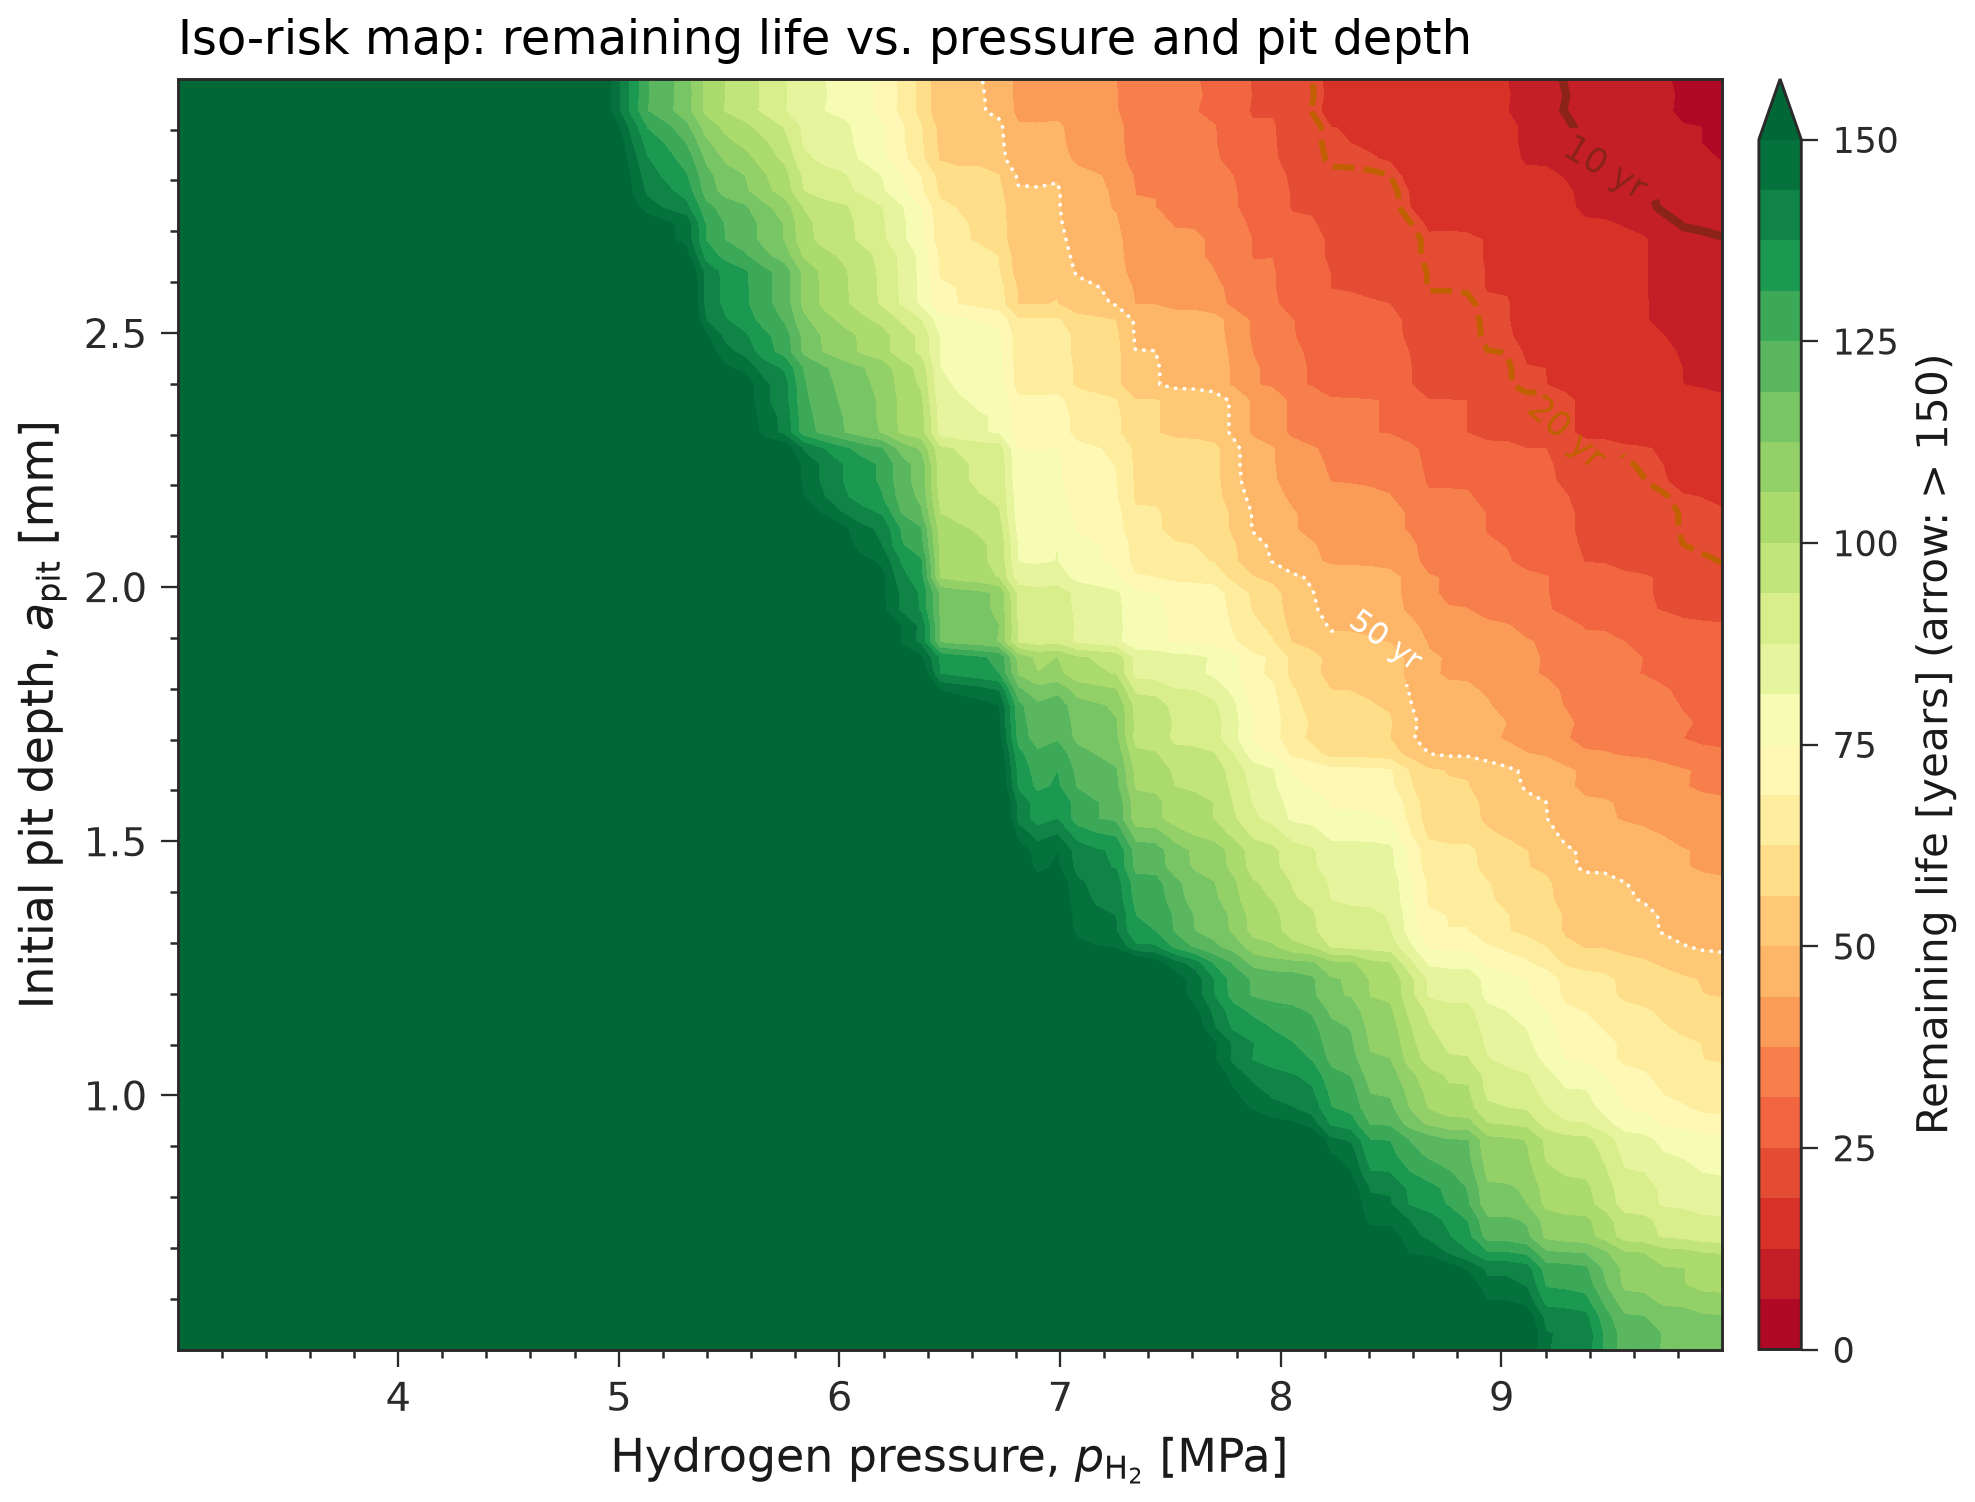
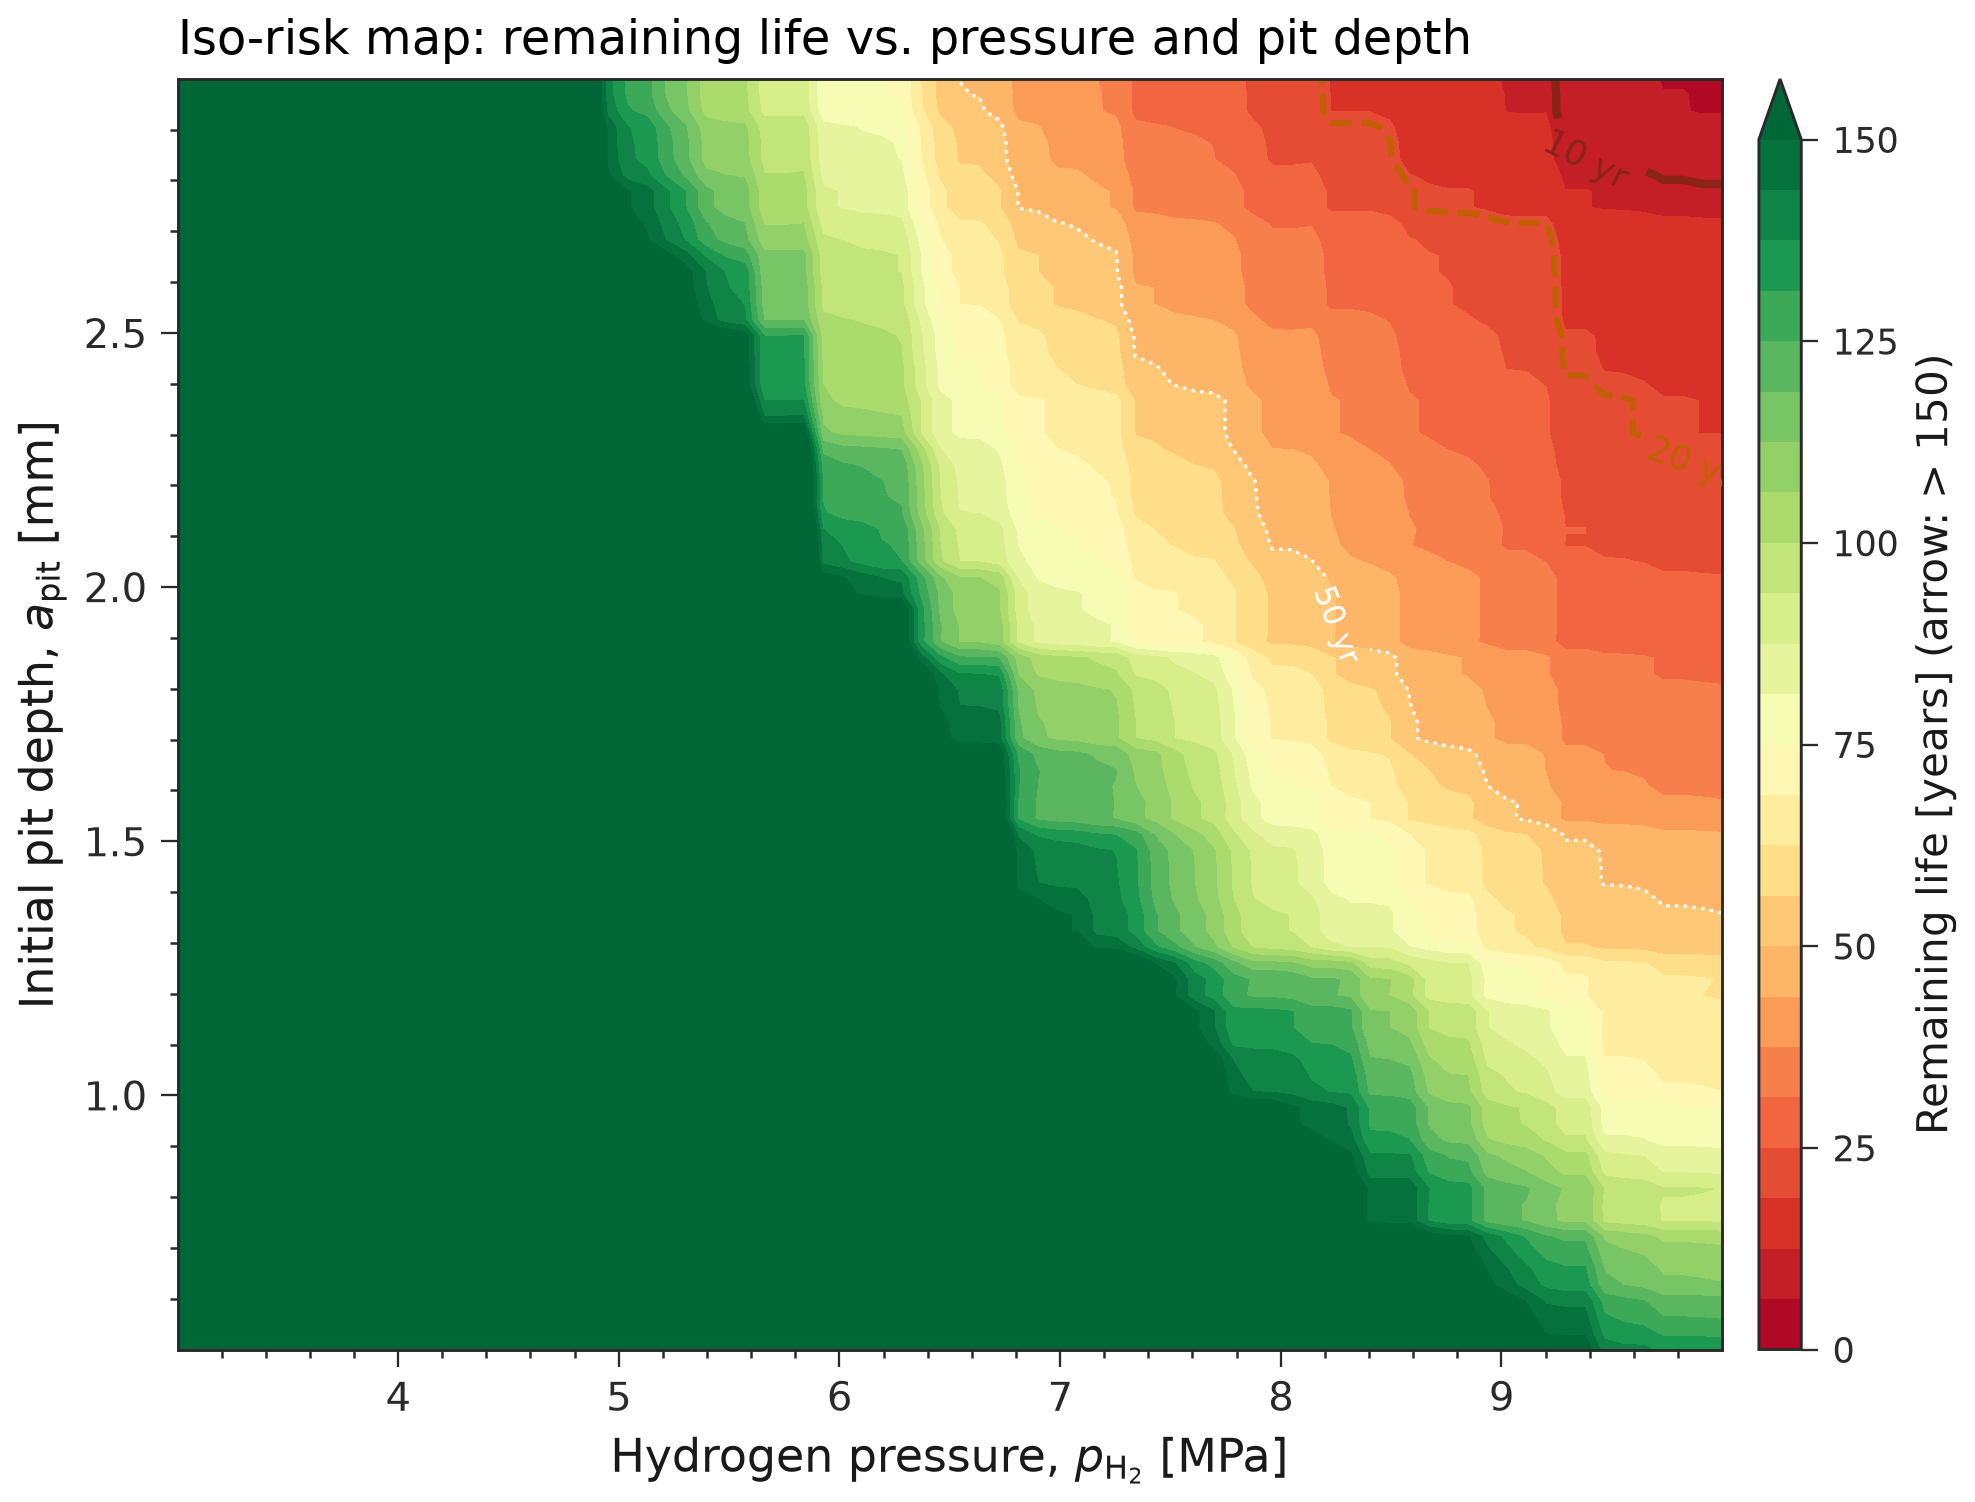
fix(lhs): raise the cycle cap so the sweep is not censored
The LHS sweep stopped at 100,000 cycles (274 yr), below the 279 yr
default case, so 723 of 2,000 runs (154 of the 390 held-out runs) sat at
the cap and Spearman rho and the surrogate were fitted to the capped
value. The cap is now 1,000,000 cycles (2,740 yr): 43 runs (2.2%) are
censored. They are flagged, tie above every failure in the Spearman
ranks, and are left out of the surrogate.

Spearman rho: p_H2 -0.832 -> -0.855, pit depth -0.431 -> -0.460,
K_IC +0.117 -> +0.109, c/a +0.026 -> +0.025, D_L +0.001 -> +0.004.
Surrogate R2 0.997 -> 0.993, MAE 3.5 -> 19.0 yr (lives now span
0 to 2,740 yr). LHS run time 167 -> 491 s on 24 cores.

Test: test_lhs_cap_clears_default_life_and_flags_censoring (fails on
the old 100,000-cycle cap). Tornado, parity and iso-risk figures
regenerated; the largest tornado label now sits inside its bar.

Changed region(s): [[0.5251, 0.0306, 0.8957, 0.5819], [0.3089, 0.0306, 0.8957, 0.9188], [0.4324, 0.0919, 0.4633, 0.1225]]

diff --git a/docs/equations.html b/docs/equations.html
@@ -285,7 +285,7 @@ with design factor $F=0.50$ and material performance factor $H_f=0.54$, both pla
 </div>
 
 <footer>
-  Integrity Code Series — Week 7 · Felipe Rocha · 191 / 191 tests passing<br>
+  Integrity Code Series — Week 7 · Felipe Rocha · 192 / 192 tests passing<br>
   Browse the rendered panels in <code>assets/</code> for visual results.
 </footer>
 

diff --git a/src/monte_carlo.py b/src/monte_carlo.py
@@ -34,6 +34,11 @@ from config import (
 from hydrogen_diffusion import solve_diffusion
 from ha_fcg import run_life_prediction, cycles_to_years
 
+# LHS cycle cap: 1,000,000 cycles is 2,740 years at one cycle a day, ten times the
+# default-case life (279 yr). At the old 100,000 cycles (274 yr) 723 of 2,000 runs
+# were censored, including the region around the default case.
+LHS_MAX_CYCLES = 1_000_000
+
 
 @dataclass
 class MonteCarloResult:
@@ -235,6 +240,7 @@ class LHSResult:
     remaining_life_years: np.ndarray
     failure_modes: List[str]
     spearman_correlations: Dict[str, float]
+    censored: np.ndarray         # no failure by the cap: life > cap, value held at the cap
 
 
 def run_lhs_sweep(
@@ -277,7 +283,7 @@ def run_lhs_sweep(
     sim_fast = SimControl(
         n_wall_nodes=30,
         dt_diffusion_s=200.0,
-        max_cycles=100_000,
+        max_cycles=LHS_MAX_CYCLES,
         da_increment_m=sim.da_increment_m,
         n_mc_samples=sim.n_mc_samples,
         mc_seed=sim.mc_seed,
@@ -325,8 +331,11 @@ def run_lhs_sweep(
     results = _map_samples(jobs, workers)
     remaining_lives = np.array([r[0] for r in results])
     failure_modes = [r[1] for r in results]
+    censored = np.array([m == "no_failure" for m in failure_modes], dtype=bool)
 
-    # Spearman rank correlation for sensitivity
+    # Spearman rank correlation for sensitivity. Censored runs tie at the cap,
+    # above every failure, which is their true rank order against failures;
+    # only their order among themselves is lost, so keep them few (see cap).
     from scipy.stats import spearmanr
     correlations = {}
     for j, name in enumerate(param_names):
@@ -340,4 +349,5 @@ def run_lhs_sweep(
         remaining_life_years=remaining_lives,
         failure_modes=failure_modes,
         spearman_correlations=correlations,
+        censored=censored,
     )

diff --git a/tests/test_suite.py b/tests/test_suite.py
@@ -1,6 +1,6 @@
 """
 INTEGRITY CODE SERIES -- Week 7
-Comprehensive Test Suite: 191 tests
+Comprehensive Test Suite: 192 tests
 
 Categories:
     A. Configuration and parameter validation (18)
@@ -1251,6 +1251,32 @@ class TestSeamFactorIsLive:
                              cfg["h2_embrittlement"], cfg["pit"], cfg["ops"], cfg["sim"])
         assert "f_seam" not in r.param_names
         assert r.params.shape == (8, 5)
+
+    def test_lhs_cap_clears_default_life_and_flags_censoring(self, cfg, monkeypatch):
+        """The default case fails at 101,801 cycles (279 yr). At the old LHS cap of
+        100,000 cycles 723 of 2,000 runs were censored around it, and rho and the
+        surrogate were fitted to the capped value. The cap must clear the default
+        life by a wide margin, and runs with no failure must be flagged."""
+        import monte_carlo as mc
+        caps = []
+
+        class Runout:
+            failure_mode = "no_failure"
+            pit_transitioned = False
+
+        def stub(*a, **k):
+            caps.append(a[6].max_cycles)
+            r = Runout()
+            r.failure_cycle = a[6].max_cycles
+            return r
+
+        cfg["sim"].n_lhs_samples = 4
+        monkeypatch.setattr(mc, "solve_diffusion", lambda *a, **k: None)
+        monkeypatch.setattr(mc, "run_life_prediction", stub)
+        r = mc.run_lhs_sweep(cfg["geom"], cfg["mat"], cfg["h2_transport"],
+                             cfg["h2_embrittlement"], cfg["pit"], cfg["ops"], cfg["sim"])
+        assert min(caps) >= 5 * 101_801
+        assert r.censored.all()
 
 
 class LifeStub:

diff --git a/run_all.py b/run_all.py
@@ -58,12 +58,14 @@ def main():
 
     print(f"Running LHS sweep ({sim.n_lhs_samples:,} samples)...")
     lhs = run_lhs_sweep(geom, mat, h2t, he, pit, ops, sim, workers=workers)
+    print(f"Censored at the cycle cap: {lhs.censored.sum()} of {lhs.n_samples}")
     print("Spearman correlations:")
     for k, v in sorted(lhs.spearman_correlations.items(), key=lambda x: -abs(x[1])):
         print(f"  {k}: {v:.3f}")
 
-    print("Training GBR surrogate...")
-    surr = train_surrogate(lhs.params, lhs.remaining_life_years, lhs.param_names)
+    print("Training GBR surrogate on the runs that fail before the cap...")
+    ok = ~lhs.censored
+    surr = train_surrogate(lhs.params[ok], lhs.remaining_life_years[ok], lhs.param_names)
     print(f"R2 test: {surr.r2_test:.3f}")
     for k, v in validate_feature_ranking(surr.feature_importances).items():
         print(f"  {k}: {v}")

diff --git a/src/visualization.py b/src/visualization.py
@@ -249,8 +249,10 @@ def plot_sensitivity_tornado(spearman_corrs, save_path="assets/sensitivity_torna
     ax.set_xlim(-1.0, 1.0); ax.minorticks_on()
     for i, v in enumerate(vals):
         off = 0.025 * np.sign(v)
-        ax.text(v+off, i, f"{v:+.3f}", va="center",
-                ha="left" if v>=0 else "right", fontsize=8, color=_CHAR)
+        inside = abs(v) > 0.75   # a label outside would run into the axis edge
+        ax.text(v-off if inside else v+off, i, f"{v:+.3f}", va="center",
+                ha=("left" if v >= 0 else "right") if not inside else ("right" if v >= 0 else "left"),
+                fontsize=8, color="white" if inside else _CHAR)
 
     _ensure_dir(save_path)
     fig.savefig(save_path); plt.close(fig)

diff --git a/README.md b/README.md
@@ -4,7 +4,7 @@
 [![CI](https://github.com/felipearocha/integrity-code-series-week7-h2-lferw/actions/workflows/ci.yml/badge.svg)](https://github.com/felipearocha/integrity-code-series-week7-h2-lferw/actions/workflows/ci.yml)
 [![License: MIT](https://img.shields.io/badge/License-MIT-green.svg)](LICENSE)
 [![Python 3.11+](https://img.shields.io/badge/python-3.11%2B-blue.svg)](https://www.python.org/downloads/)
-[![Tests: 191 passing](https://img.shields.io/badge/tests-191%20passing-brightgreen.svg)](tests)
+[![Tests: 192 passing](https://img.shields.io/badge/tests-192%20passing-brightgreen.svg)](tests)
 [![DOI](https://zenodo.org/badge/DOI/10.5281/zenodo.20172481.svg)](https://doi.org/10.5281/zenodo.20172481)
 
 ---
@@ -26,15 +26,17 @@ From `python run_all.py`, with the default [ASSUMED] parameters. These are model
 | Default case, 0.82 mm pit, 7 MPa | Fracture at 101,801 cycles (279 years) |
 | Monte Carlo, 10,000 samples | P5 = 47 yr, P50 = 189 yr, P95 = 431 yr |
 | Fraction of samples below 10 yr | 0.8% |
-| Surrogate on held-out LHS runs | R² = 0.997, MAE = 3.5 yr |
+| Surrogate on held-out LHS runs that fail before the cap | R² = 0.993, MAE = 19.0 yr |
 
 | LHS parameter (2,000 samples) | Spearman rho |
 |-------------------------------|--------------|
-| Hydrogen pressure | -0.83 |
-| Initial pit depth | -0.43 |
-| Seam toughness K_IC | +0.12 |
-| Aspect ratio c/a | +0.03 |
+| Hydrogen pressure | -0.86 |
+| Initial pit depth | -0.46 |
+| Seam toughness K_IC | +0.11 |
+| Aspect ratio c/a | +0.02 |
 | Diffusivity D_L | 0.00 |
+
+The LHS sweep runs to 1,000,000 cycles (2,740 years). 43 of the 2,000 runs (2.2%) reach that cap without failing. They tie at the cap in the Spearman ranks, above every failure, and are left out of the surrogate.
 
 Pressure dominates through the stress. Diffusivity has no influence: the wall reaches its steady hydrogen profile within days, while crack growth takes decades.
 
@@ -130,7 +132,7 @@ integrity-code-series-week7-h2-lferw/
         cybersecurity.py             # STRIDE, audit chain, sensor integrity
         visualization.py             # All plots + animated GIF
     tests/
-        test_suite.py                # 191 tests
+        test_suite.py                # 192 tests
     docs/
         equations.html               # Rendered (MathJax) governing equations
     assets/                          # Generated visuals
@@ -151,7 +153,7 @@ python -m pytest tests/ -v
 # 3. Smoke-run the whole chain: 20 MC + 60 LHS samples, figures to a temp folder (about 2 minutes)
 python run_all.py --quick
 
-# 4. Full run: 10,000 MC + 2,000 LHS samples, regenerates assets/ (about 30 minutes on 24 cores)
+# 4. Full run: 10,000 MC + 2,000 LHS samples, regenerates assets/ (about 35 minutes on 24 cores)
 python run_all.py
 ```
 
@@ -174,7 +176,7 @@ All parameters flagged [ASSUMED] in config.py. Critical ones:
 - **The default case runs above the MAOP.** 7 MPa is 78% of SMYS and 2.9 times the placeholder MAOP of 2.42 MPa. It is a stress case, not a proposed operating point.
 - **Pits do not grow in hydrogen service.** Pit depth is fixed at conversion; only a crack grows.
 - **Plastic collapse does not end the life calculation.** Life stops at $K_{\max} \ge K_{IC}$ or at 90% wall. The FAD trajectory of the default case leaves the envelope much earlier, at about 60,000 cycles (164 years), so the 279-year figure is a fracture life, not a safe life.
-- **Life is capped.** Monte Carlo stops at 200,000 cycles (548 years) and the LHS sweep at 100,000 cycles (274 years).
+- **Life is capped.** Monte Carlo stops at 200,000 cycles (548 years; 1.3% of samples censored) and the LHS sweep at 1,000,000 cycles (2,740 years; 2.2% censored). The surrogate predicts only lives that end in failure before the cap.
 
 ## Cybersecurity (STRIDE)
 

diff --git a/CHANGELOG.md b/CHANGELOG.md
@@ -8,6 +8,7 @@ and this project adheres to [Semantic Versioning](https://semver.org/spec/v2.0.0
 ## [Unreleased]
 
 ### Fixed
+- LHS censoring: the sweep stopped at 100,000 cycles (274 yr), below the 279 yr default case, so 723 of 2,000 runs (154 of the 390 held-out runs) sat at the cap and Spearman rho and the surrogate were fitted to the capped value. The cap is now 1,000,000 cycles (2,740 yr): 43 runs (2.2%) censored. Censored runs are flagged and left out of the surrogate. Spearman rho: p_H2 -0.832 -> -0.855, pit depth -0.431 -> -0.460, K_IC +0.117 -> +0.109, c/a +0.026 -> +0.025, D_L +0.001 -> +0.004. Surrogate R^2 0.997 -> 0.993, MAE 3.5 -> 19.0 yr (lives now span 0 to 2,740 yr). Tornado, parity and iso-risk figures regenerated.
 - Sign of the stress-drift term in the diffusion PDE: hydrogen now moves toward tension. With a linear test field C(w/2)/C0 goes 0.3775 -> 0.6225. No effect at the default Lame field, where sigma_h is uniform.
 - `f_seam` was sampled and never used. It now scales pit depth in the Monte Carlo and is removed from the LHS sweep, which samples pit depth directly (6 -> 5 parameters).
 - Pit-to-crack transition compares the threshold with the stress range: at a = 0.15 mm, K 5.25 -> dK 2.63 MPa sqrt(m); El Haddad a_th 0.040 -> 0.159 mm.
